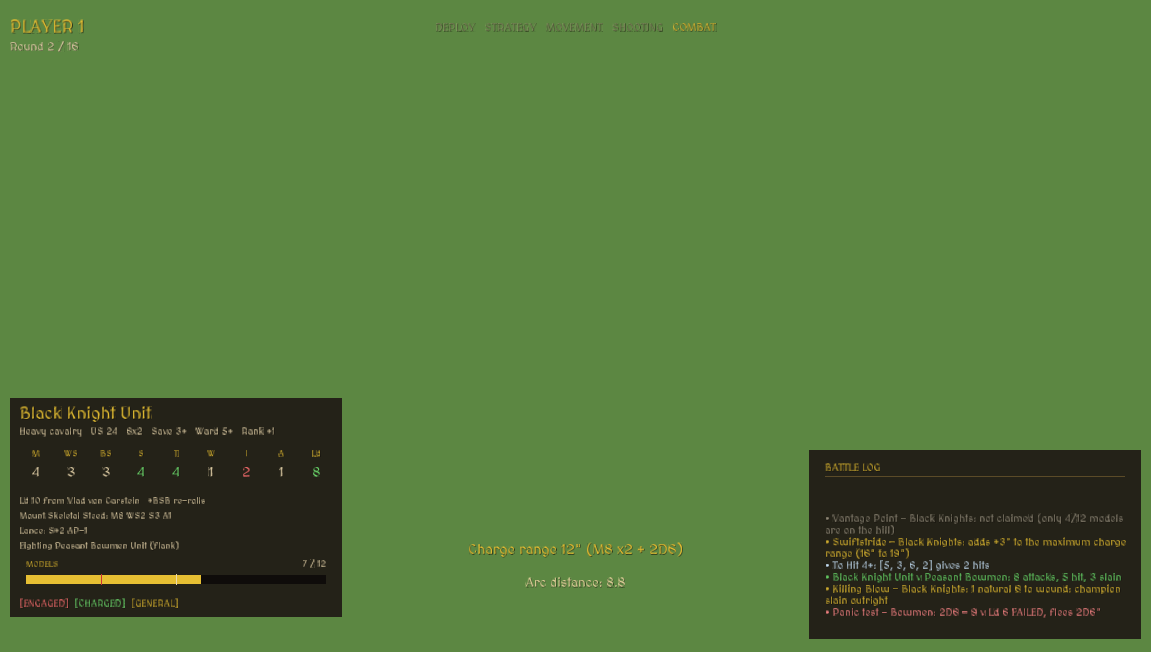
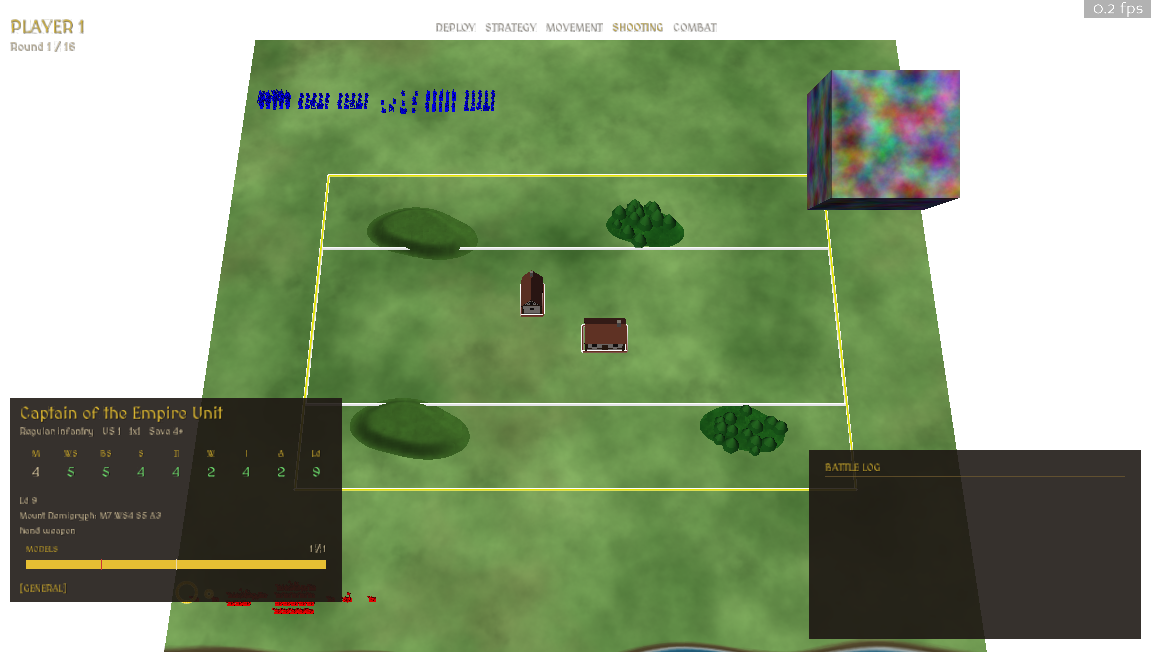
Fix startup crash from the unit-card refresh binding
GamePhaseFSM broadcasts a phase from inside its own constructor, so 'hud-phase' was firing before psychology, combat and movement existed. Bound the refresh after the subsystems are built instead.

Also: a weapon with no strength or AP override was rendering as 'hand weapon:' with a trailing colon and nothing after it.

diff --git a/game.py b/game.py
@@ -249,8 +249,6 @@ class MyApp(ShowBase):
         # Built before anything that publishes to it (round counter, FSM).
         self.hud = HUD()
         self.accept('f3', self.hud.toggle)
-        # A phase change resets the flags the card's chips are drawn from.
-        self.accept('hud-phase', self.refreshSelectedUnit)
         self.roundCounter = RoundCounter(self,16)
 
         self.boundries = OutOfBounds(self)
@@ -300,6 +298,10 @@ class MyApp(ShowBase):
         # Developer tools; inert unless WH_DEBUG is set or --debug is passed.
         self.debug_tools = DebugTools(self) if debug_enabled() else None
         self.accept('t', self.start_tutorial)
+        # A phase change resets the flags the card's chips are drawn from.
+        # Bound here: the FSM broadcasts a phase while it is being built, when
+        # psychology and the rest do not exist yet.
+        self.accept('hud-phase', self.refreshSelectedUnit)
 
         self.fsm.request("DeployPhase")
 
@@ -1495,18 +1497,19 @@ class MyApp(ShowBase):
 
         weapon = model.equipedWeapon or {}
         if weapon:
+            name = weapon.get('name', 'weapon')
             if weapon.get('tag') == 'ranged':
-                lines.append(f"{weapon.get('name', 'weapon')}: "
-                             f"R{weapon.get('ranged_range', '-')}\" "
+                lines.append(f"{name}: R{weapon.get('ranged_range', '-')}\" "
                              f"S{weapon.get('ranged_strength', '-')} "
                              f"AP{weapon.get('ranged_AP', 0)}")
             else:
-                parts = [f"{weapon.get('name', 'weapon')}:"]
+                # A plain hand weapon carries no override, so it gets no colon.
+                parts = []
                 if weapon.get('strength'):
                     parts.append(f"S{weapon['strength']}")
                 if weapon.get('ap'):
                     parts.append(f"AP{weapon['ap']}")
-                lines.append(" ".join(parts))
+                lines.append(f"{name}: {' '.join(parts)}" if parts else name)
 
         if model.is_wizard():
             level = model.wizard_level(1)
